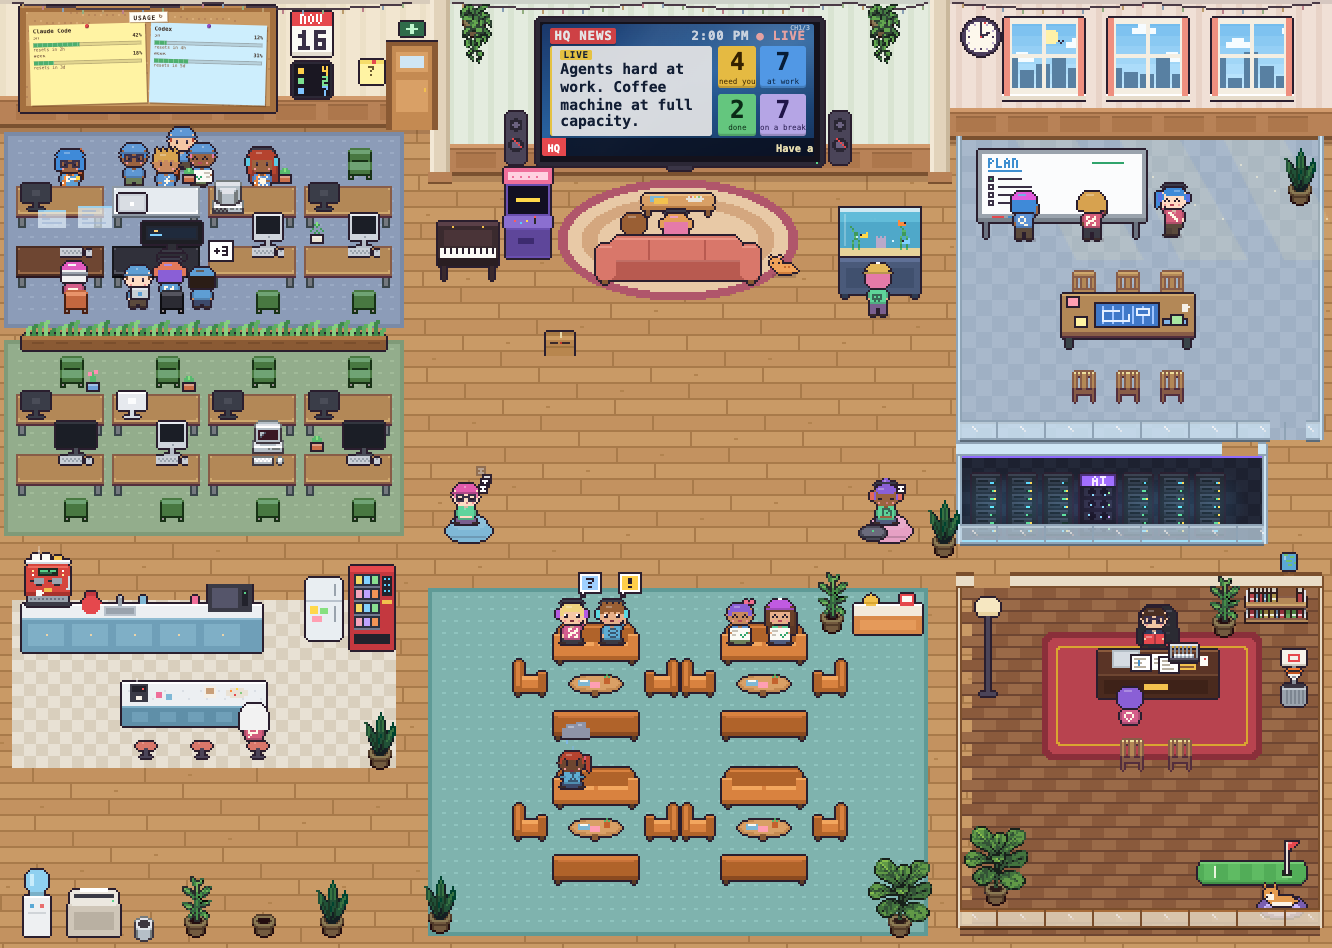
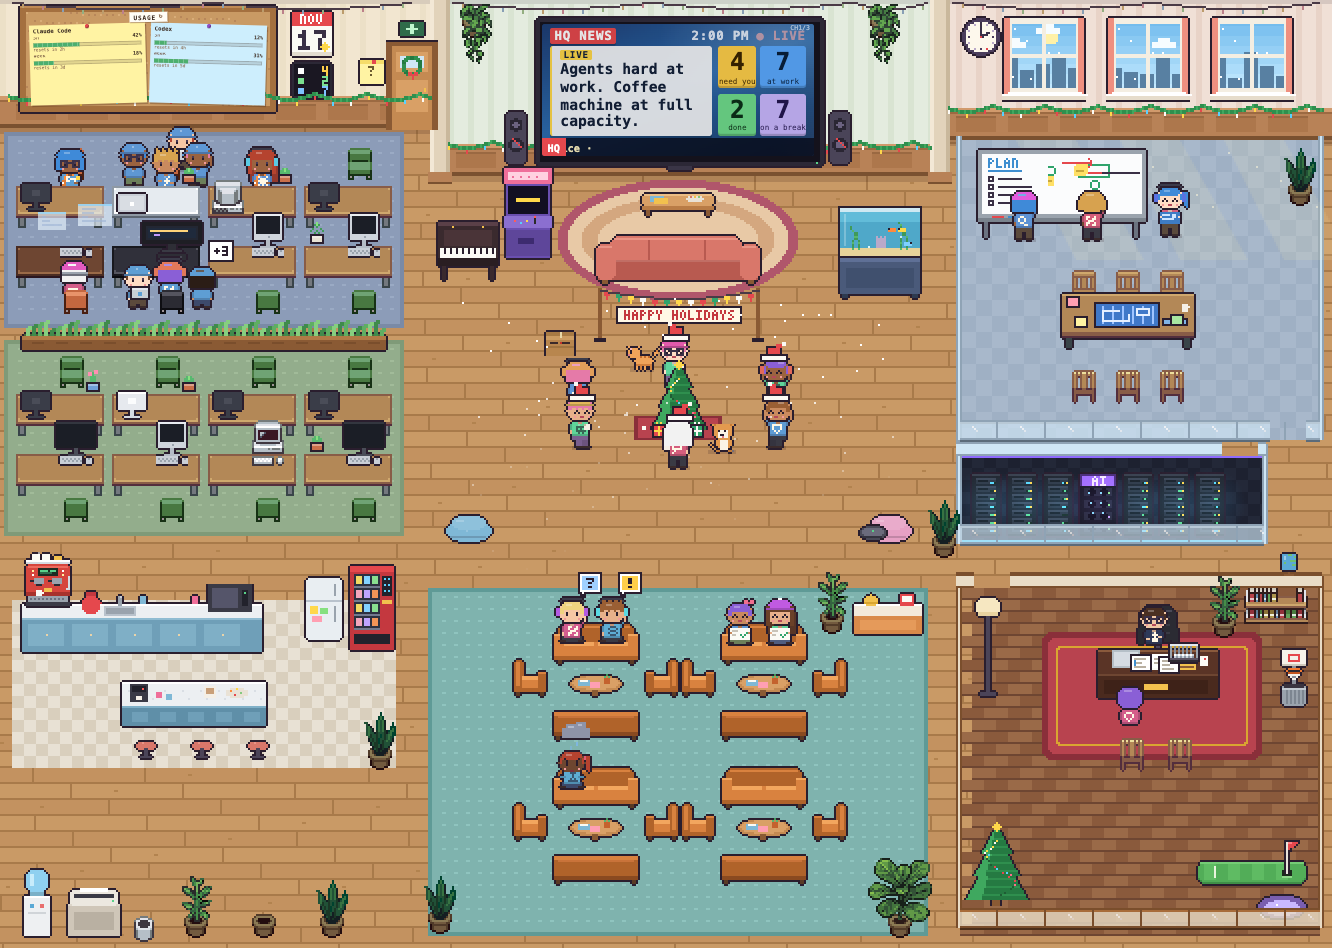
Cozy HQ 0.6.1: four sceneries up top in the README
- The first screenshot is the office at a holiday party
- Below it a grid of Redwood Camp, Neon City at night, Villain's Lair and
  Surf Villa, instead of the evening and phone screenshots

diff --git a/README.md b/README.md
@@ -6,11 +6,18 @@ their desks, planners at the whiteboard, threads that need you in the waiting
 room, idle ones on a coffee break. It fills a whole panel and doubles as a
 home screen.
 
-![The office at midday](docs/office.png)
+![The office at a holiday party](docs/office.png)
 
-![A lantern walk in the evening](docs/evening.png)
-
-<img src="docs/phone.png" width="300" alt="The office stacked for a phone held upright">
+<table>
+  <tr>
+    <td width="50%"><img src="docs/redwoods.png" width="100%" alt="Redwood Camp by day"><br><sub>Redwood Camp</sub></td>
+    <td width="50%"><img src="docs/neon-night.png" width="100%" alt="Neon City at night"><br><sub>Neon City at night</sub></td>
+  </tr>
+  <tr>
+    <td width="50%"><img src="docs/lair.png" width="100%" alt="The Villain's Lair by day"><br><sub>Villain's Lair</sub></td>
+    <td width="50%"><img src="docs/beach.png" width="100%" alt="Surf Villa by day"><br><sub>Surf Villa</sub></td>
+  </tr>
+</table>
 
 ## Install
 

diff --git a/CHANGELOG.md b/CHANGELOG.md
@@ -1,5 +1,9 @@
 # Changelog
 
+## 0.6.1 (2026-11-17)
+
+- README: the office at a holiday party up top, and four sceneries below it (Redwood Camp, Neon City at night, Villain's Lair, Surf Villa) instead of the evening and phone screenshots.
+
 ## 0.6.0 (2026-11-17)
 
 A home office for the agents, and a tour of the place.
